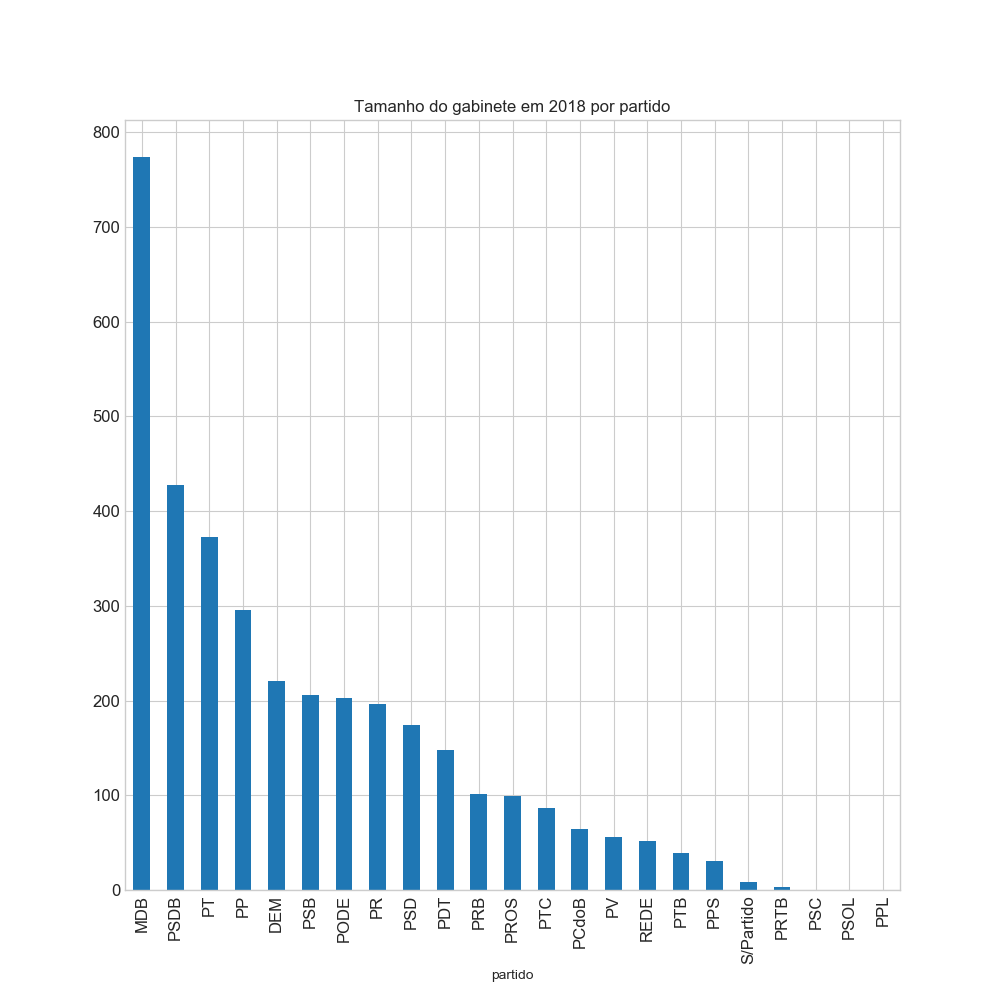
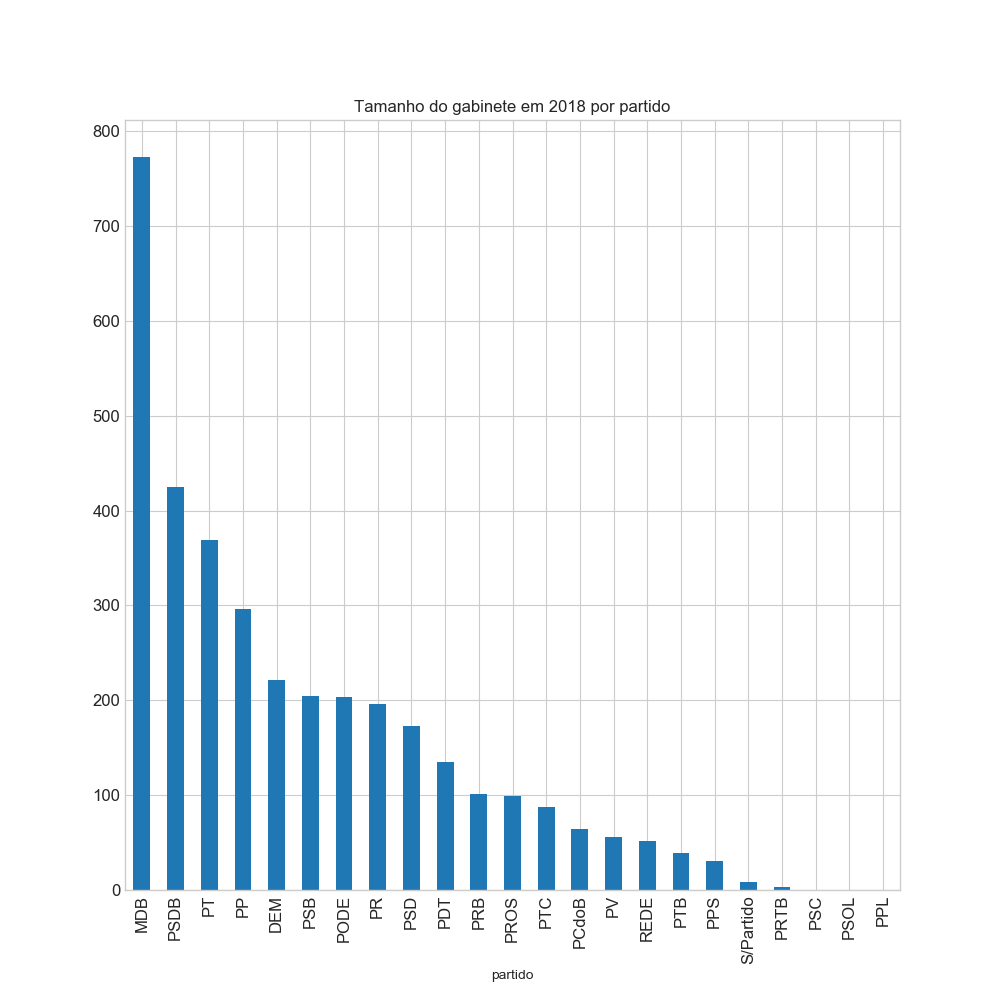
Atualização de dados do Senado (55)- auto

diff --git a/index.html b/index.html
@@ -29,9 +29,9 @@
       <div class="row"><b class="SenadoSubTitle">Informações de despesas de senadores</b><br></div>
       <div class="row"><b class="SenadoSubTitle">Dados coletados em 
 <!--Data-->       
-06/07/2018 às 
+08/07/2018 às 
 <!--Hora-->
-20:00:31      </b><br></div>
+18:45:05      </b><br></div>
       <br>
       <div class="TextoImagem">
         <center>
@@ -185,7 +185,7 @@
               <td align='left'>Titular</td>
               <td align='middle'>SE</td>
               <td align='left'>PSB</td>
-              <td align='right'>51 pessoas</td>
+              <td align='right'>49 pessoas</td>
               <td align='right'>41 meses</td>
             </tr>
             <tr>
@@ -306,7 +306,7 @@
               <td align='left'>Titular</td>
               <td align='middle'>SE</td>
               <td align='left'>PSDB</td>
-              <td align='right'>60 pessoas</td>
+              <td align='right'>59 pessoas</td>
               <td align='right'>41 meses</td>
             </tr>
             <tr>
@@ -324,7 +324,7 @@
               <td>21</td>
               <td align='middle'><a href='http://www6g.senado.leg.br/transparencia/sen/4767/?ano=2018' target='_blank'><img src='fotos/senador4767.jpg' height='51' width='42'><span class='fototip'>Crédito foto: Jefferson Rudy/Agência Senado</span></a></td>
               <td align='left'>Eduardo Lopes</td>
-              <td align='left' class='gastos' name='4767'>R$ 849.485,48</td>
+              <td align='left' class='gastos' name='4767'>R$ 853.647,23</td>
               <td align='left'>1º Suplente</td>
               <td align='middle'>RJ</td>
               <td align='left'>PRB</td>
@@ -427,7 +427,7 @@
               <td align='left'>Titular</td>
               <td align='middle'>PR</td>
               <td align='left'>PT</td>
-              <td align='right'>46 pessoas</td>
+              <td align='right'>42 pessoas</td>
               <td align='right'>41 meses</td>
             </tr>
             <tr>
@@ -460,7 +460,7 @@
               <td align='left'>Titular</td>
               <td align='middle'>PA</td>
               <td align='left'>MDB</td>
-              <td align='right'>30 pessoas</td>
+              <td align='right'>29 pessoas</td>
               <td align='right'>41 meses</td>
             </tr>
             <tr>
@@ -559,7 +559,7 @@
               <td align='left'>Titular</td>
               <td align='middle'>TO</td>
               <td align='left'>PDT</td>
-              <td align='right'>52 pessoas</td>
+              <td align='right'>39 pessoas</td>
               <td align='right'>26 meses</td>
             </tr>
             <tr>
@@ -570,7 +570,7 @@
               <td align='left'>Titular</td>
               <td align='middle'>RS</td>
               <td align='left'>PSD</td>
-              <td align='right'>23 pessoas</td>
+              <td align='right'>22 pessoas</td>
               <td align='right'>40 meses</td>
             </tr>
             <tr>
@@ -812,7 +812,7 @@
               <td align='left'>Titular</td>
               <td align='middle'>MA</td>
               <td align='left'>PSDB</td>
-              <td align='right'>54 pessoas</td>
+              <td align='right'>53 pessoas</td>
               <td align='right'>35 meses</td>
             </tr>
             <tr>
